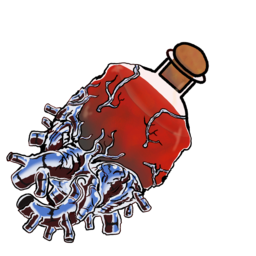
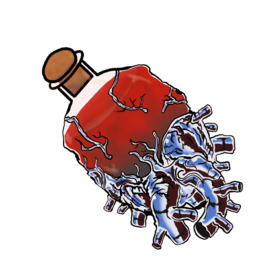
asset corrected

diff --git a/script.js b/script.js
@@ -86,7 +86,7 @@ if(load()==null||isReload){
     potionOBJGenerator(saveData.potionOBJ);
 };
 
-saveData=load();
+// saveData=load();
 console.log(saveData);
 //console.log(saveData.potion);
 //console.log(saveData.potionRDM);
@@ -121,7 +121,7 @@ sellButton.addEventListener("click", ()=>{
         if(score>saveData.maxScore){
             saveData.maxScore=score;
         }
-        save(saveData);
+       //  save(saveData);
     };
 });
 